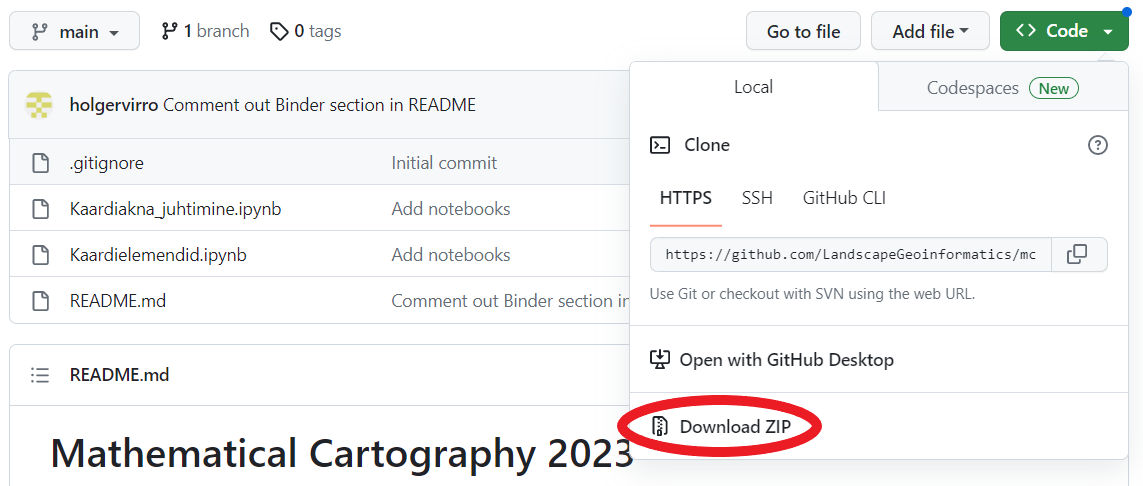
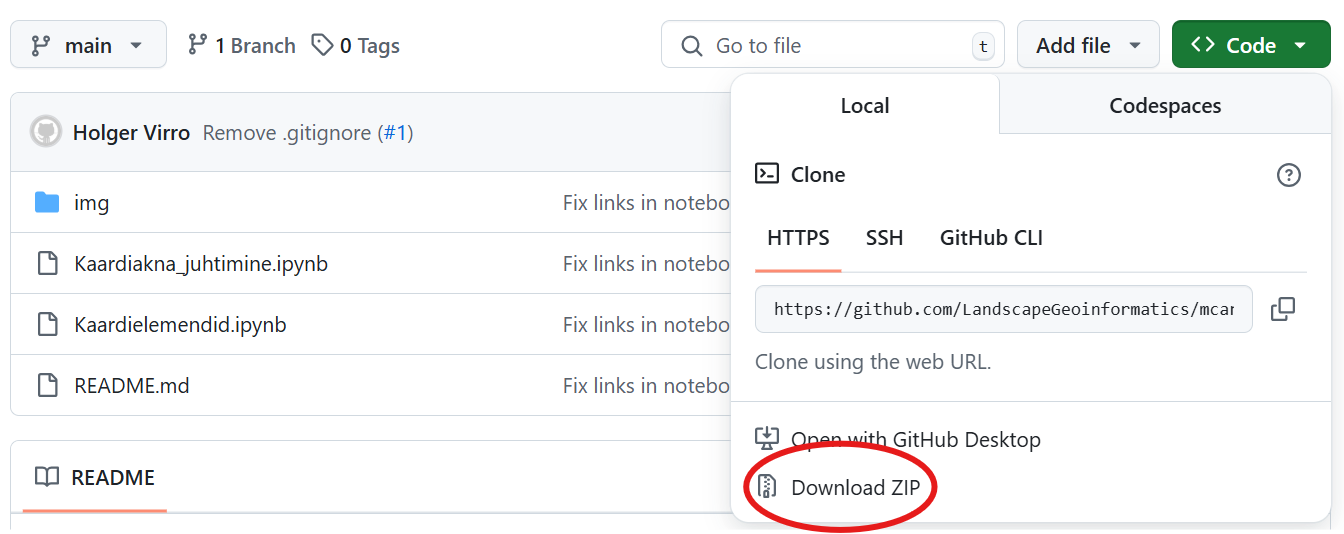
Replace download_zip.png (#1)

diff --git a/README.md b/README.md
@@ -10,13 +10,13 @@ Teine juhend keskendub täiendavate kaardielementide lisamisele, mille hulka kuu
 
 ## Ettevalmistus
 
-Juhendite kasutamine eeldab [Micromamba](https://conda.io/en/main/miniconda.html) olemasolu, mis peaks olema arvutiklassi arvutites tagatud. Kes soovib seda seadistada oma arvutis, võib selleks kasutada Alex Kmochi vastavat [juhendit](https://kodu.ut.ee/~kmoch/geopython2023/Py_00/Installing_Micromamba.html).
+Juhendite kasutamine eeldab [Micromamba](https://mamba.readthedocs.io/en/latest/) olemasolu, mis peaks olema arvutiklassi arvutites tagatud. Kes soovib seda seadistada oma arvutis, võib selleks kasutada Alex Kmochi vastavat [juhendit](https://kodu.ut.ee/~kmoch/geopython2023/Py_00/Installing_Micromamba.html).
 
 Pärast Micromamba installimist laadi alla ja paki kuhugi kausta lahti käesolev repositoorium koos kõigi failidega.
 
 `Code -> Download ZIP`
 
-![download_zip](img/download_zip.png)
+![download_zip](img/download_zip.png style="width:60%")
 
 Seejärel leia ja ava käsurea kaudu Windows PowerShell.
 
